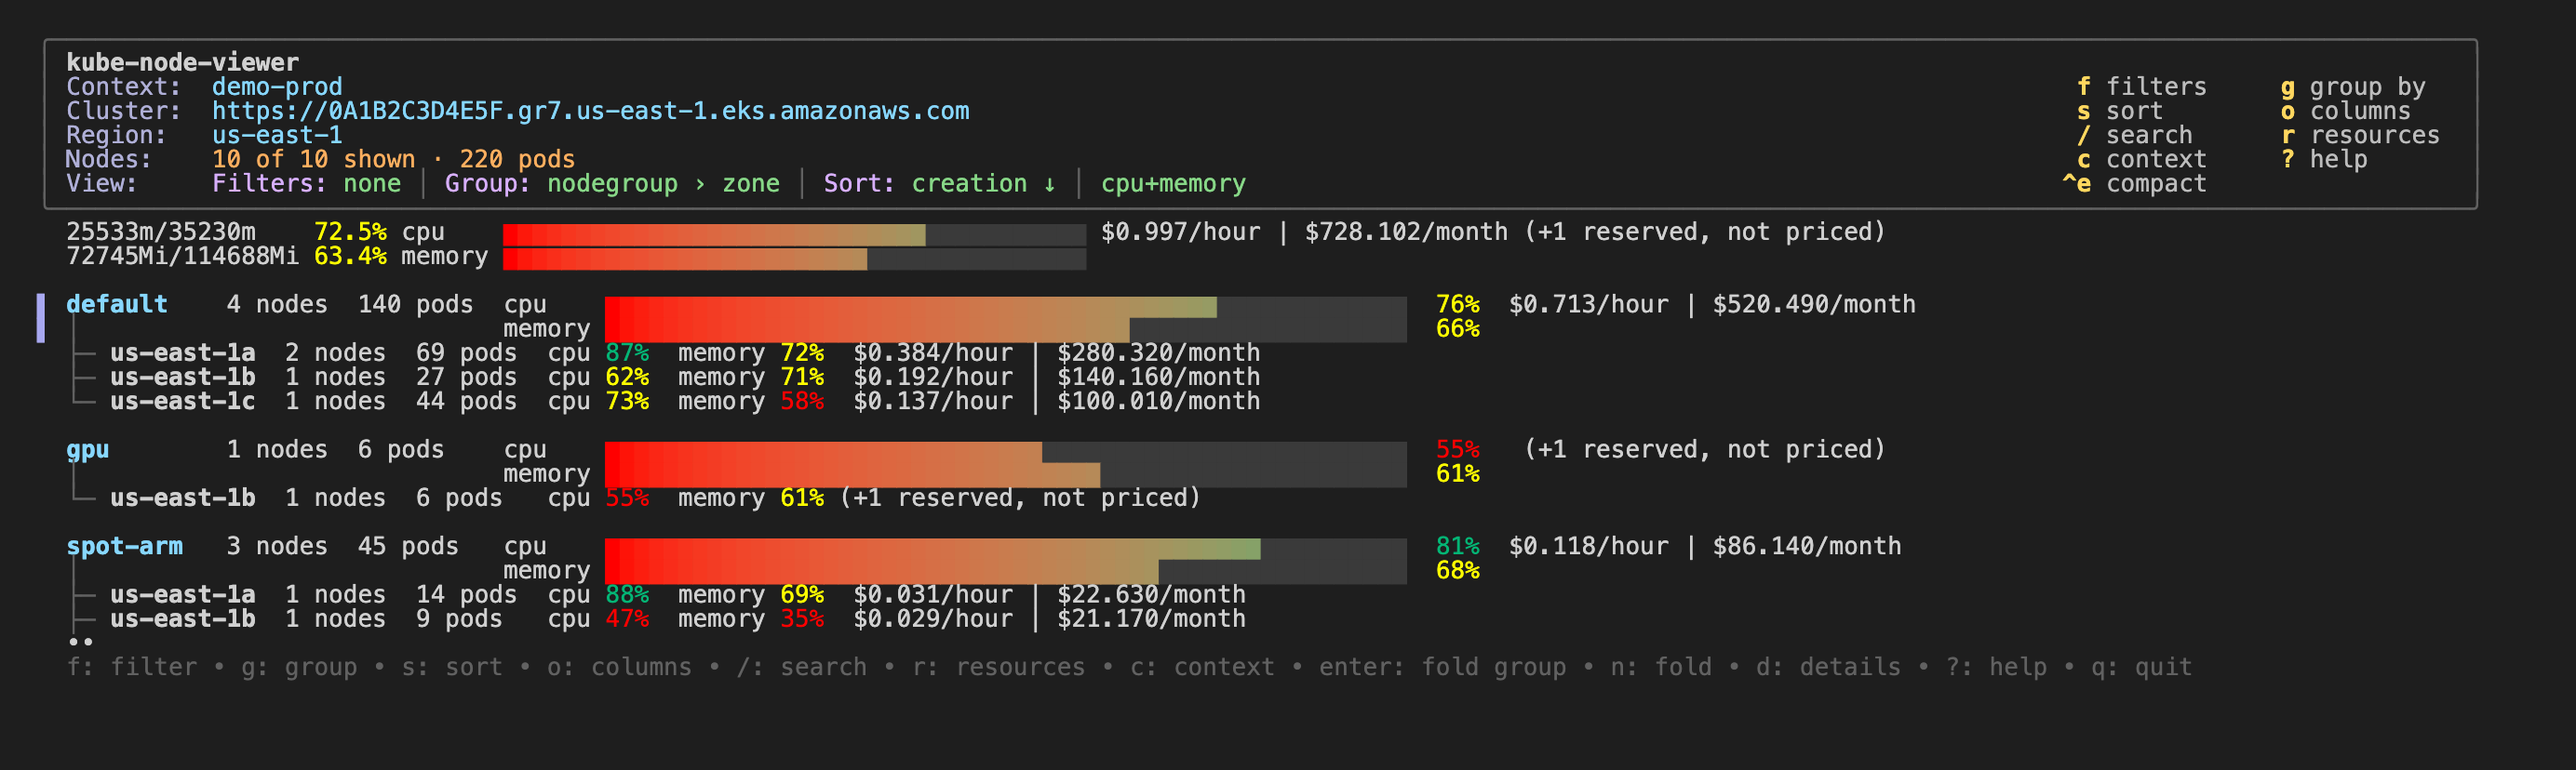
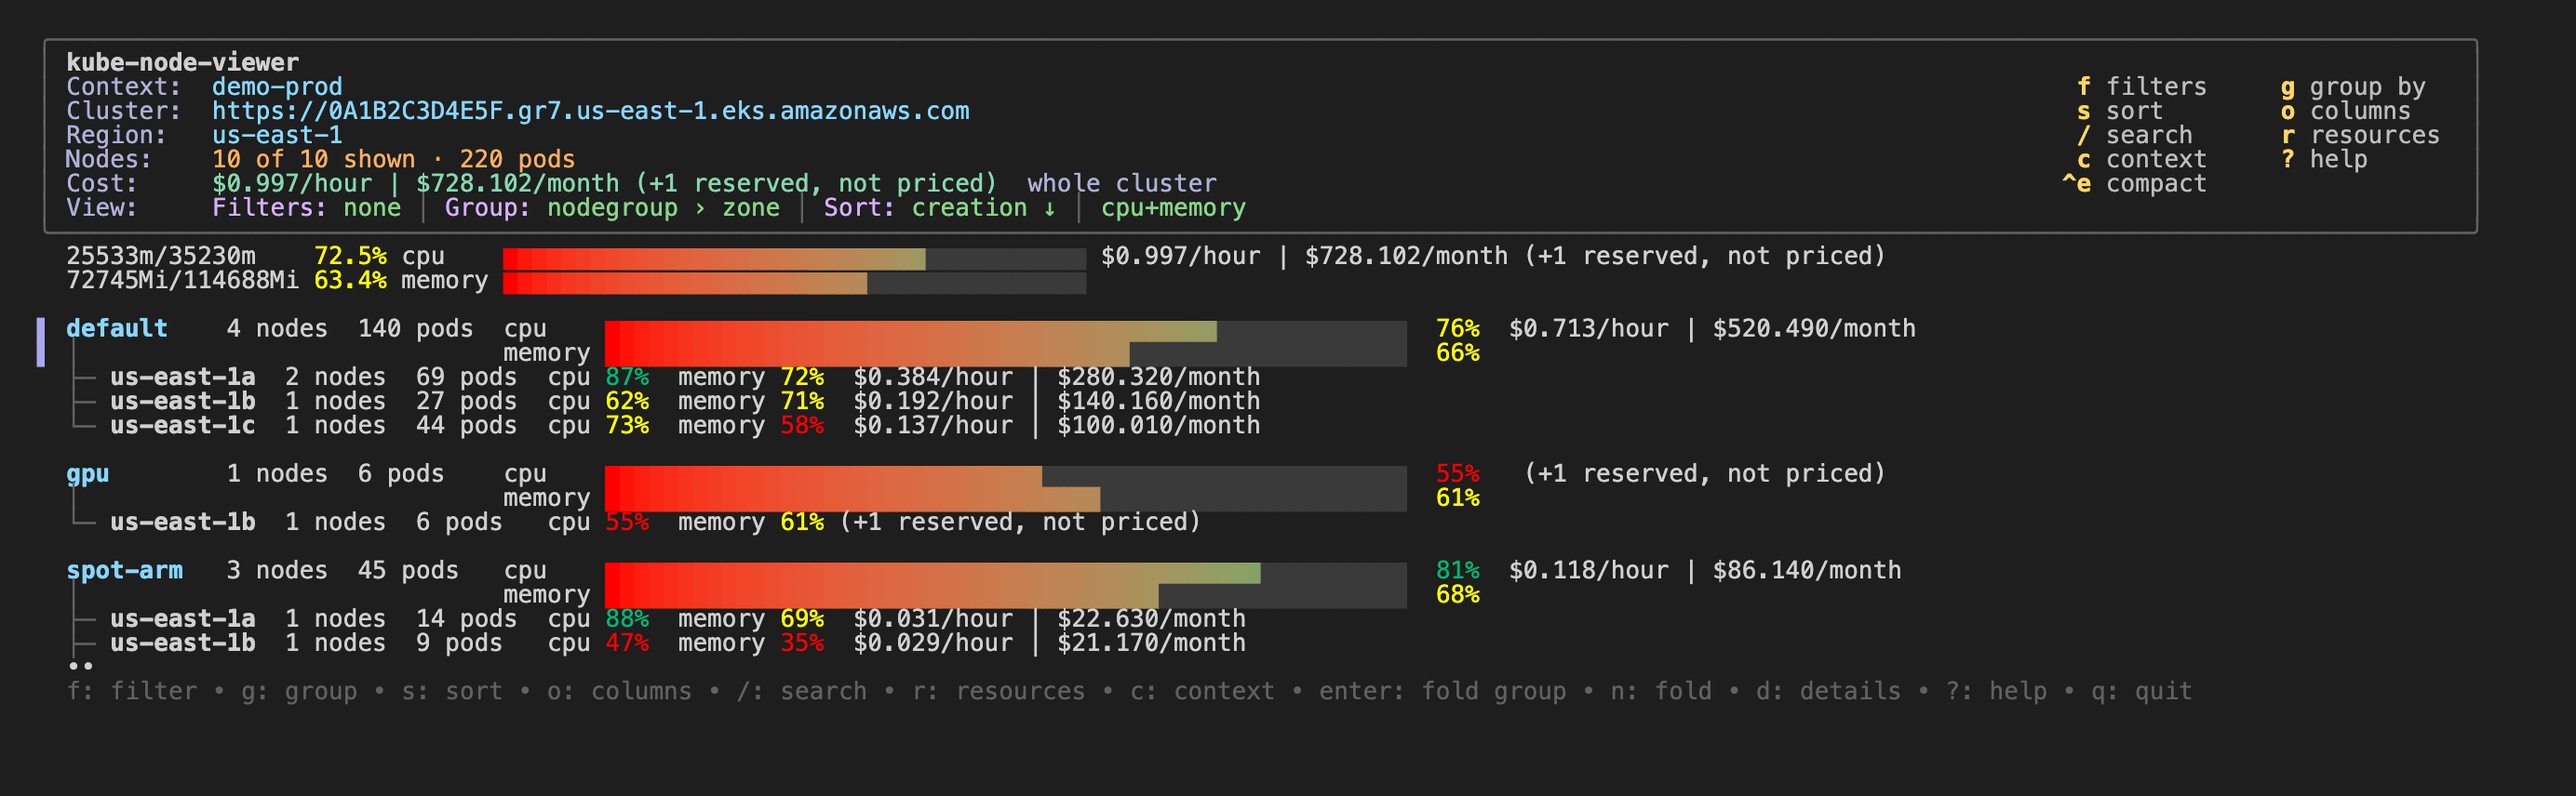
feat: the header keeps the whole cluster's cost
With the summary following the filters, the cluster's cost moves into
the header: a Cost: row in the full panel and the hourly figure in the
compact and one-line headers, whatever the filters. Hidden with pricing
disabled.

diff --git a/pkg/model/header.go b/pkg/model/header.go
@@ -44,6 +44,8 @@ var (
 	viewOption  = lipgloss.NewStyle().Foreground(lipgloss.AdaptiveColor{Light: "#8700af", Dark: "#d7afff"}).Render
 	viewValue   = lipgloss.NewStyle().Foreground(lipgloss.AdaptiveColor{Light: "#005f00", Dark: "#87d787"}).Render
 	viewSep     = lipgloss.NewStyle().Foreground(lipgloss.Color("#626262")).Render
+	// the cluster's cost, whatever the filters
+	costValue = lipgloss.NewStyle().Foreground(lipgloss.AdaptiveColor{Light: "#005f5f", Dark: "#87d7af"}).Render
 )
 
 // issueWindow is how long a logged error stays in the header.
@@ -59,6 +61,22 @@ func (u *UIModel) recentIssue() string {
 		return ""
 	}
 	return msg
+}
+
+// clusterCost is the cost of every watched node, whatever the filters, for
+// the header; empty with pricing disabled. short drops the monthly figure.
+func (u *UIModel) clusterCost(stats Stats, short bool) string {
+	if u.DisablePricing {
+		return ""
+	}
+	cost := u.printer.Sprintf("$%0.3f/hour", stats.TotalPrice)
+	if !short {
+		cost += u.printer.Sprintf(" | $%0.3f/month", stats.TotalPrice*avgHoursPerMonth)
+	}
+	if stats.UnpricedReserved > 0 {
+		cost += u.printer.Sprintf(" (+%d reserved, not priced)", stats.UnpricedReserved)
+	}
+	return cost
 }
 
 // headerKeys are the main keys shown in the header panel, as key and action.
@@ -129,7 +147,11 @@ func (u *UIModel) header(stats Stats, nodes []*Node) string {
 	issue := u.recentIssue()
 	if u.headerSize() == headerLine {
 		sep := viewSep(" │ ")
-		line := headerContext(context) + sep + countsValue(counts) + sep + u.viewSummary()
+		line := headerContext(context) + sep + countsValue(counts)
+		if cost := u.clusterCost(stats, true); cost != "" {
+			line += sep + costValue(cost)
+		}
+		line += sep + u.viewSummary()
 		if issue != "" {
 			line += sep + u.style.red("⚠ "+issue)
 		}
@@ -148,6 +170,9 @@ func (u *UIModel) header(stats Stats, nodes []*Node) string {
 			}
 		}
 		where = append(where, countsValue(counts))
+		if cost := u.clusterCost(stats, true); cost != "" {
+			where = append(where, costValue(cost))
+		}
 		body := strings.Join(where, headerLabel(" · ")) + "\n" + u.viewSummary()
 		if issue != "" {
 			body += "\n" + u.style.red("⚠ "+issue)
@@ -160,6 +185,10 @@ func (u *UIModel) header(stats Stats, nodes []*Node) string {
 		{"Region:", headerValue(orDash(region))},
 		{"Nodes:", countsValue(counts)},
 		{"View:", u.viewSummary()},
+	}
+	if cost := u.clusterCost(stats, false); cost != "" {
+		// after Nodes, before View: the cluster's figures together
+		rows = append(rows[:4], append([][2]string{{"Cost:", costValue(cost) + headerLabel("  whole cluster")}}, rows[4:]...)...)
 	}
 	if issue != "" {
 		rows = append(rows, [2]string{"Issue:", u.style.red(issue) + headerLabel("  full log: "+u.issueLog)})

diff --git a/pkg/model/fit_internal_test.go b/pkg/model/fit_internal_test.go
@@ -147,13 +147,39 @@ func TestSummaryCoversOnlyShownNodes(t *testing.T) {
 	if !strings.Contains(out, "$0.118/hour") || !strings.Contains(out, "(filtered: 3 of 10 nodes)") {
 		t.Errorf("filtered summary:\n%s", out)
 	}
-	if strings.Contains(out, "$0.997/hour") {
-		t.Error("the cluster total still shows under a filter")
+	// the box keeps the cluster's cost; the summary below it must not
+	if below := out[strings.Index(out, "╰"):]; strings.Contains(below, "$0.997/hour") {
+		t.Error("the summary still shows the cluster total under a filter")
 	}
 	// a reserved node filtered in is counted as not priced, not as cost
 	v.Filters = []Filter{{Field: FieldCapacity, Values: []string{"Reserved"}, Enabled: true}}
 	u.SetView(v)
 	if out := u.View(); !strings.Contains(out, "$0.000/hour") || !strings.Contains(out, "(+1 reserved, not priced)") {
 		t.Errorf("reserved only:\n%s", out)
+	}
+}
+
+func TestHeaderKeepsTheClusterCost(t *testing.T) {
+	u := demoUI(t)
+	u.Update(tea.WindowSizeMsg{Width: 200, Height: 40})
+	v := u.view
+	v.Filters = []Filter{{Field: FieldNodeGroup, Values: []string{"spot-arm"}, Enabled: true}}
+	u.SetView(v)
+	out := u.View()
+	header := out[:strings.Index(out, "╰")]
+	if !strings.Contains(header, "Cost:") || !strings.Contains(header, "$0.997/hour |") {
+		t.Errorf("cluster cost not in the header under a filter:\n%s", header)
+	}
+	if !strings.Contains(out, "$0.118/hour") {
+		t.Error("the summary lost the filtered cost")
+	}
+	u.Update(tea.KeyMsg{Type: tea.KeyCtrlE})
+	if compact := u.View(); !strings.Contains(compact[:strings.Index(compact, "╰")], "$0.997/hour") {
+		t.Errorf("compact header without the cluster cost:\n%s", compact)
+	}
+	u.DisablePricing = true
+	u.dirty = true
+	if strings.Contains(u.View(), "Cost:") {
+		t.Error("cost shown with pricing disabled")
 	}
 }

diff --git a/README.md b/README.md
@@ -84,7 +84,8 @@ left it.
 
 **Header box.** The context, API server URL and pricing region; how many nodes
 the filters and search keep out of all watched nodes, with their pod count
-(and pending pods, when there are any); the active view (filters, group-by,
+(and pending pods, when there are any); the cost of the whole cluster, which
+stays put whatever the filters; the active view (filters, group-by,
 sort, resources); the main keys. `ctrl+e` switches between this full panel
 and a two-line box. On a very short window it shrinks to one line.
 

diff --git a/specs/interactive-tui/requirements.md b/specs/interactive-tui/requirements.md
@@ -275,6 +275,8 @@ folded groups SHALL be saved with the view.
 > on screen: with filters or a search, usage and cost are those of the nodes
 > kept, marked `(filtered: N of M nodes)`; the owner wanted the cost of what
 > the filters show, not the cluster's.
+> The header keeps the whole cluster's cost (`Cost:` in the full panel, the
+> hourly figure in the compact and one-line headers), so both are in view.
 
 ## Counter-examples
 

diff --git a/CHANGELOG.md b/CHANGELOG.md
@@ -10,6 +10,7 @@ All notable changes to this project are documented here. Format:
 
 - The cluster summary follows the filters and search: usage and cost are
   those of the nodes on screen, marked `(filtered: N of M nodes)`.
+- The header keeps the whole cluster's cost (`Cost:`), whatever the filters.
 
 ## [0.8.2] - 2026-11-02
 
